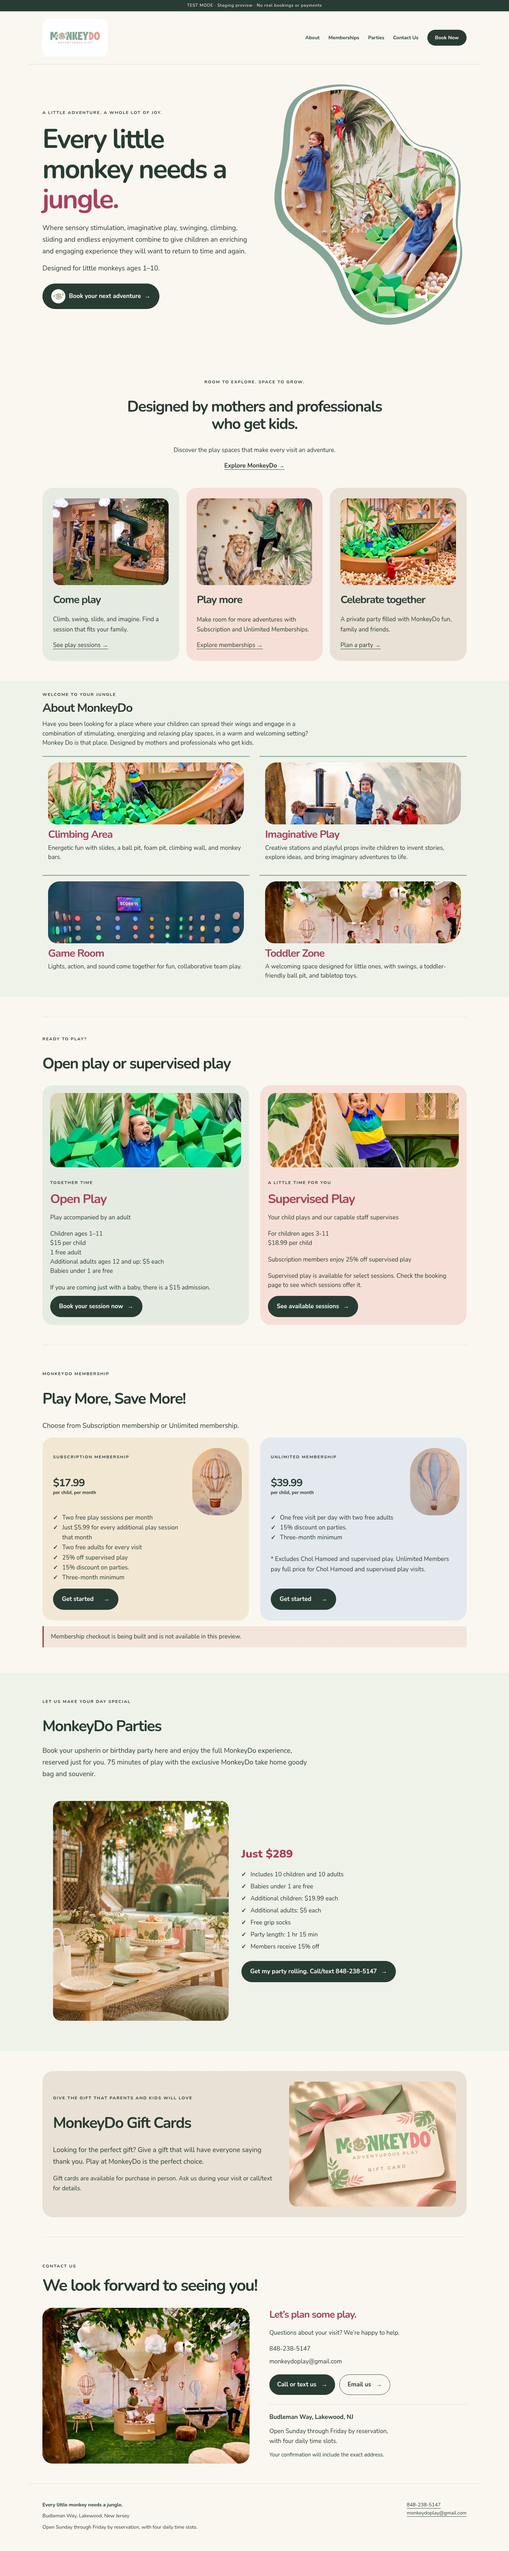
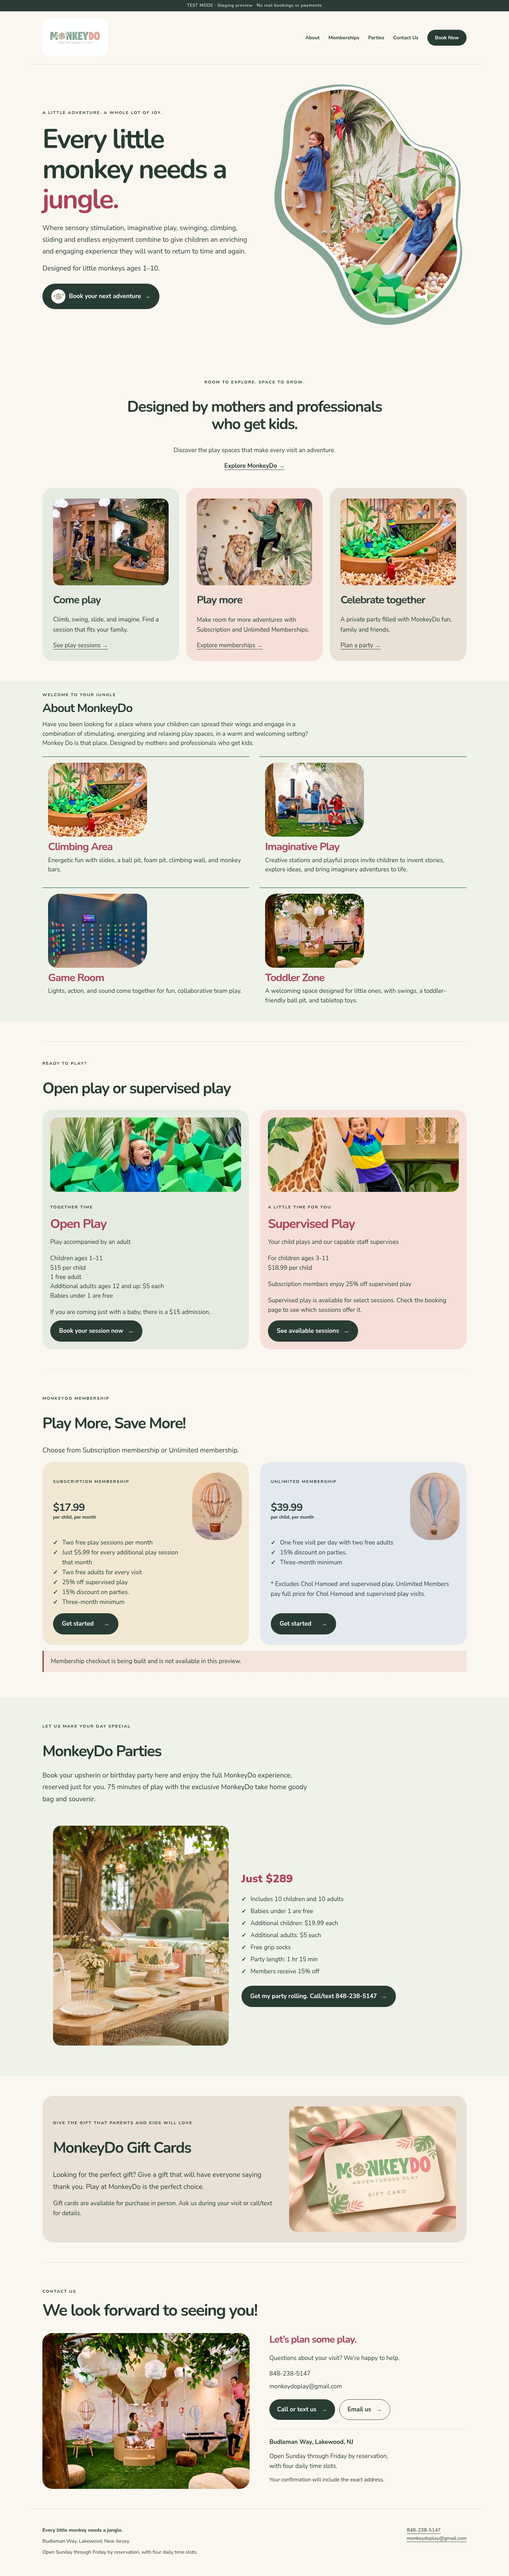
Show full scaled photographs in homepage About section

diff --git a/static/core/site.css b/static/core/site.css
@@ -891,7 +891,7 @@ input[type="checkbox"],input[type="radio"] { width:auto; padding:0; margin-right
 .schedule-coverage summary { cursor:pointer; font-weight:600; margin:8px 0 }
 .home-page .area-grid { gap:20px 28px }
 .home-page .area-grid article { padding-bottom:18px }
-.home-page .area-photo { width:100%; height:175px; object-fit:cover }
+.home-page .area-photo { width:min(100%,280px); height:auto; aspect-ratio:auto; object-fit:contain }
 .home-page .area-grid h2 { font-size:clamp(22px,2.2vw,30px); margin:12px 0 8px }
 .home-page .area-grid p { margin:0; line-height:1.55 }
 .home-page .home-section:has(.area-grid) .page-heading { padding-bottom:20px; margin-bottom:8px }
@@ -924,7 +924,6 @@ input[type="checkbox"],input[type="radio"] { width:auto; padding:0; margin-right
  .public-details-layout { display:block }
  .live-booking-estimate { margin:20px 0 }
  .booking-play-info { margin-top:22px }
- .home-page .area-photo { height:170px }
  .home-page .play-card .play-photo { height:185px }
 }
 .live-booking-estimate .quote-items>div { display:grid; grid-template-columns:minmax(0,1fr) auto; align-items:start; gap:12px; margin-bottom:14px }
@@ -937,7 +936,6 @@ input[type="checkbox"],input[type="radio"] { width:auto; padding:0; margin-right
 .home-page #about .page-heading h2 { font-size:34px; line-height:1.2; margin:0 0 12px }
 .home-page #about .page-heading .lead { font-size:17px; line-height:1.55; margin:0 }
 .home-page #about .area-grid { margin-top:24px }
-.home-page #about .area-photo { object-position:center 30% }
 @media(max-width:550px) { .home-page #about .page-heading h2 { font-size:30px } }
 
 .customer-booking-layout>.customer-booking-form { margin:0 }

diff --git a/docs/OWNER_EDITS_BATCH_3.md b/docs/OWNER_EDITS_BATCH_3.md
@@ -82,3 +82,20 @@ code rollback could ignore their booking restrictions. Prepare compatible
 recovery rather than reversing this migration or promising that old code enforces
 new state. Reinstating a globally unique start is also invalid once custom and
 standard sessions share a start. Production/live-payment approvals remain separate.
+
+
+## Image-review follow-up — full homepage About photographs
+
+Owner clarified that smaller images means scaling the full image down, not
+cropping it to a short strip, and that the standalone About page was already
+approved. Only the homepage About image styles were revised: maximum width
+280px, proportional automatic height and no fixed aspect-ratio crop. The compact
+2×2 layout remains. Existing photo files and standalone About styles are unchanged.
+Homepage play cards were not changed by this clarification.
+
+Browser checks at 1440px, 390px and 320px verify natural image proportions, full
+loaded images, the desktop 2×2 arrangement, no page overflow and unchanged
+standalone About styling. Screens 01–02 were refreshed at desktop/phone sizes;
+other gallery images remain unchanged. This styling-only follow-up did not
+require a new migration or another full application-suite run. Staging remains
+unchanged; PR/deployment still await the owner's image review.

diff --git a/docs/design-review/owner-edits-batch-3/README.md b/docs/design-review/owner-edits-batch-3/README.md
@@ -53,8 +53,11 @@ recovery, live estimate changes and final pending-test completion. It records no
 JavaScript errors or document overflow. Additional 320px and staff-permission
 checks passed. [Verification record](verification.json).
 
-The About areas are two across/two down on desktop, as clarified. Images are
-loaded before capture and use the approved existing assets. Phone layouts stack
+The homepage About areas are two across/two down on desktop, as clarified.
+Following owner feedback, their full images are scaled down at their natural
+proportions, without the short fixed-height crop. Screens 01 and 02 were
+refreshed for desktop and phone. The standalone About page is unchanged. Images
+are loaded before capture and use the approved existing assets. Phone layouts stack
 content and let wide staff tables scroll horizontally. Current tax remains on
 final Payment Details, not the new live estimate.
 

diff --git a/docs/MONKEYDO_REQUIREMENTS.md b/docs/MONKEYDO_REQUIREMENTS.md
@@ -298,7 +298,8 @@ screen. Completion-bar text uses the active-leaf rose and retains alignment.
 
 Home uses compact two-by-two About areas on desktop and smaller play-card photos
 and spacing, with legible responsive layouts. Preserve the separate About page's
-layout and aligned play buttons. These are layout/crop changes using the existing
-approved assets, not edits to image masters. Third-batch screenshot review comes
+layout and aligned play buttons. Homepage About images must be scaled down in full at their natural proportions,
+not cropped into short strips. These are layout/scaling changes using the
+existing approved assets, not edits to image masters. Third-batch screenshot review comes
 before its PR/deployment. Active membership benefits, waivers and actual payments
 remain separate unfinished development.
